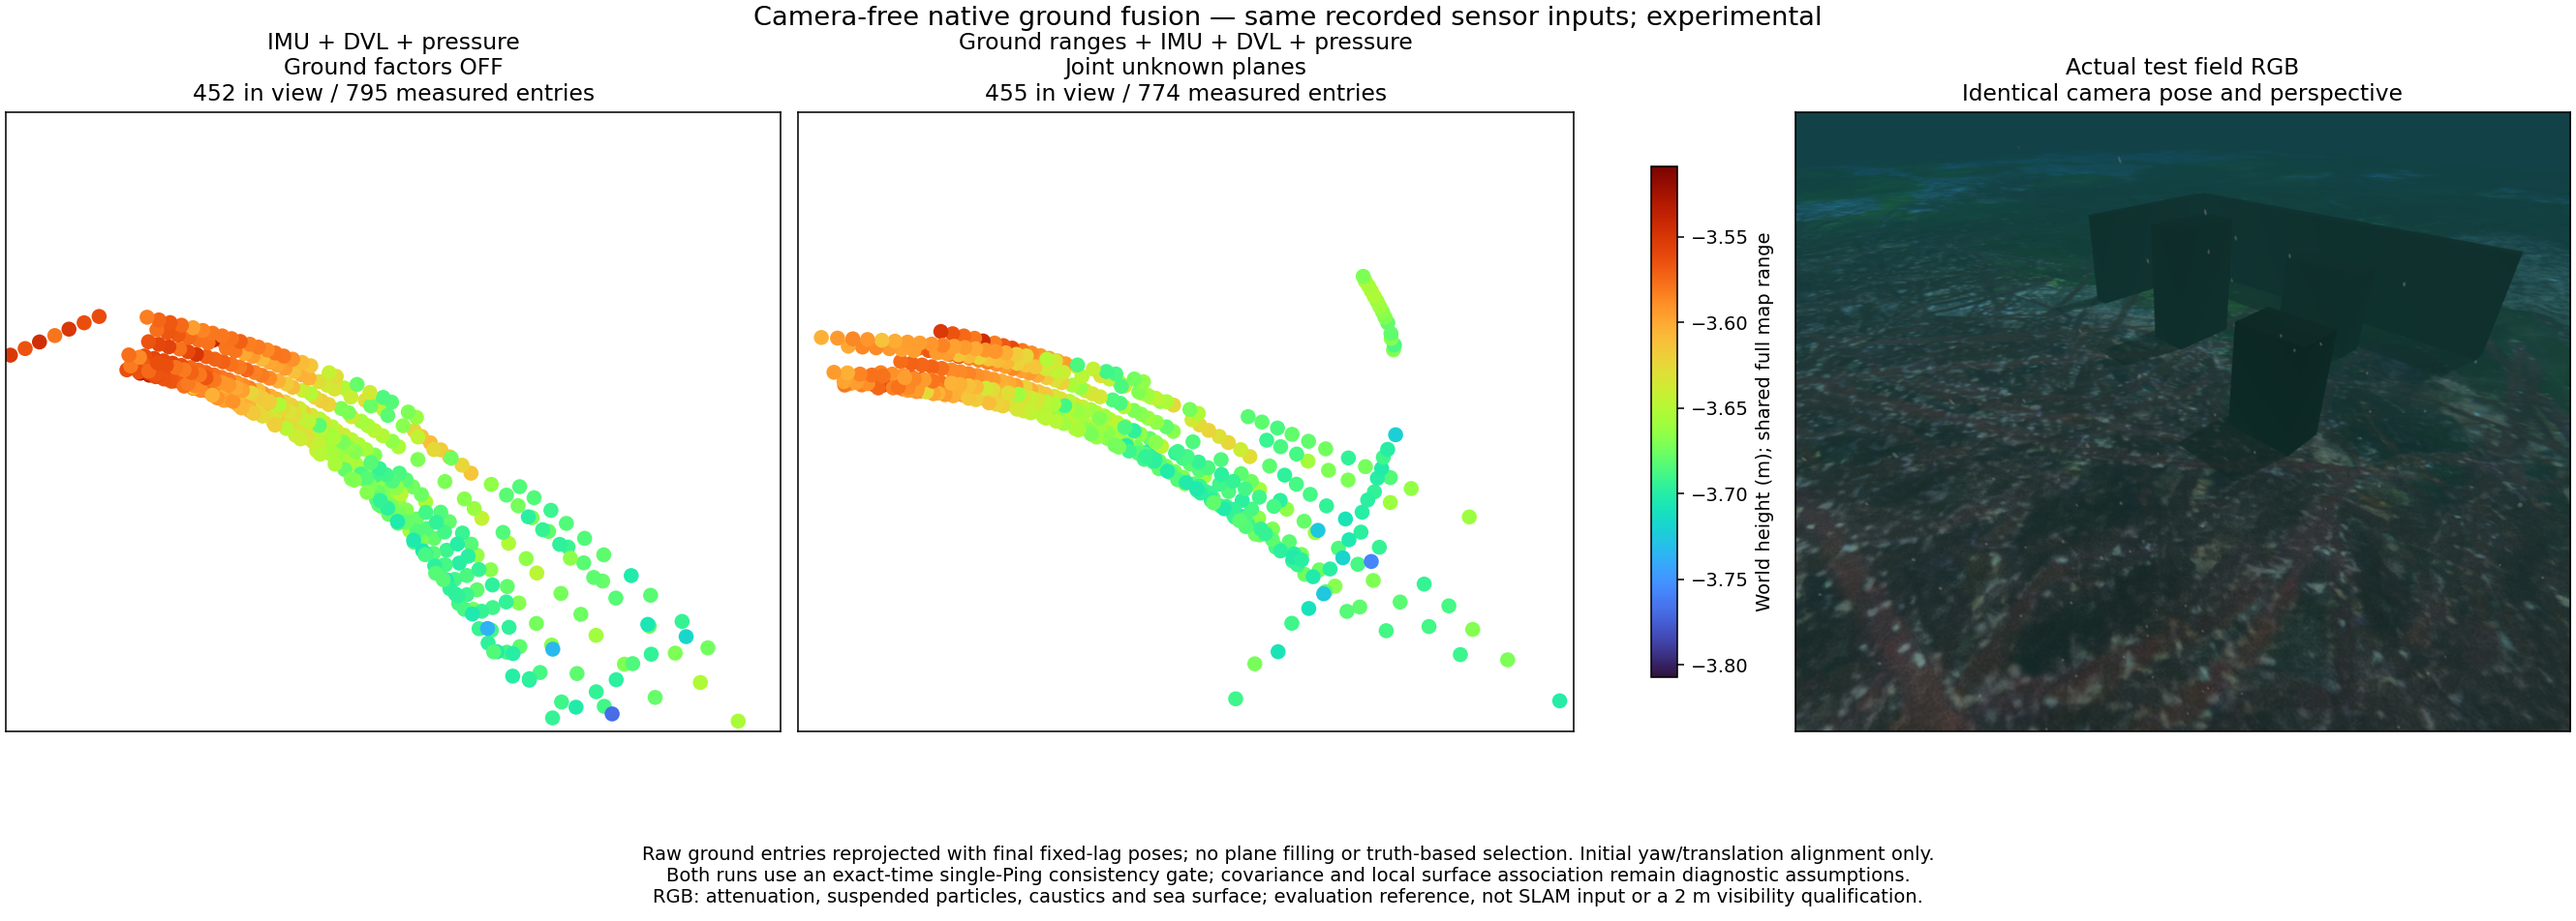
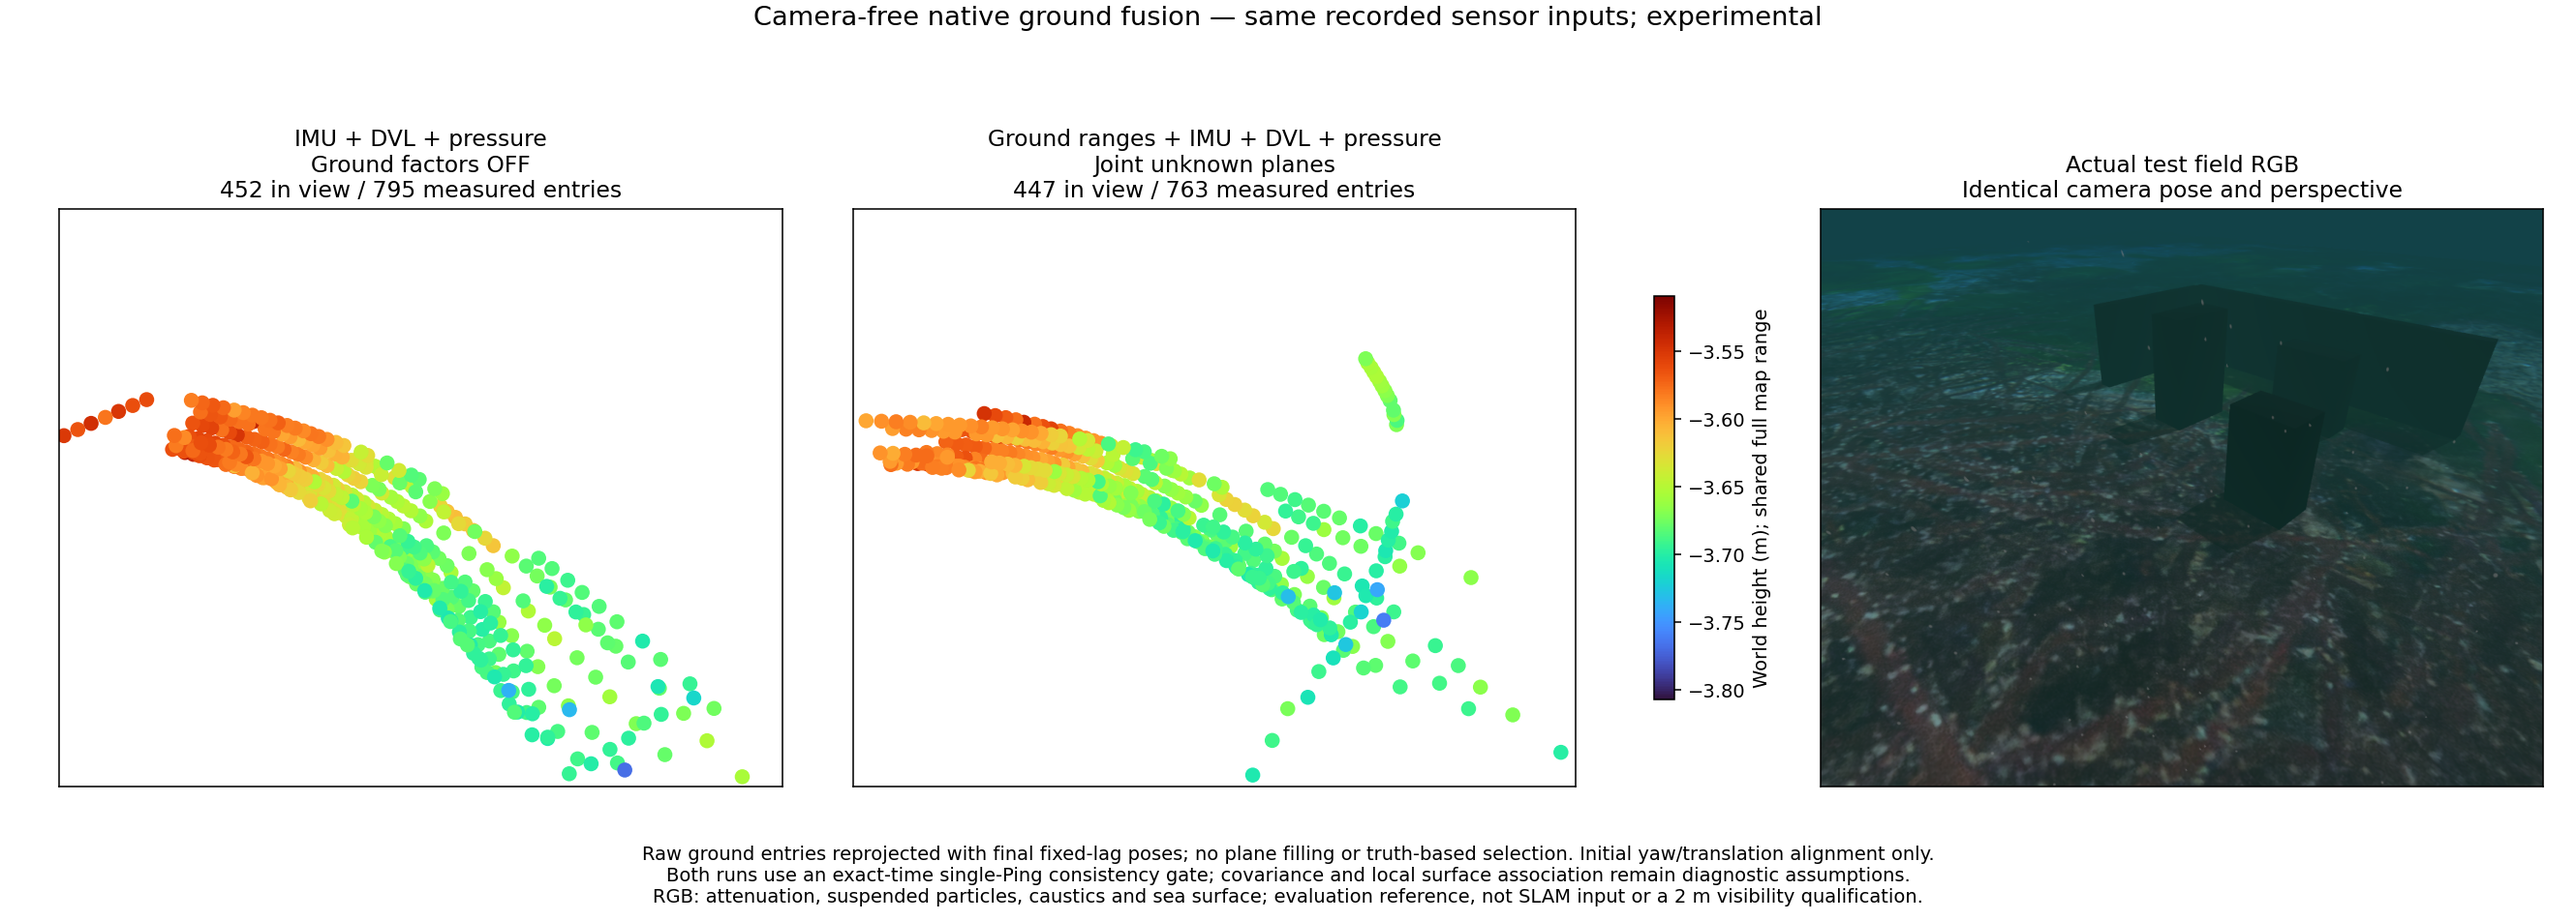
Relinearize active ground factors in current rotation coordinates

diff --git a/tests/test_sonar_ground_joint.py b/tests/test_sonar_ground_joint.py
@@ -6,6 +6,7 @@ import subprocess
 import unittest
 import numpy as np
 from posim_slam.inertial import exp_so3
+from posim_slam.inertial_alignment import log_so3
 from posim_slam.ping_joint import eliminate_patch
 from posim_slam.sonar_ground_joint import linearize_ground_patch
 
@@ -99,6 +100,45 @@ class NativeGroundTests(unittest.TestCase):
         if result.returncode:raise RuntimeError(result.stderr)
         return json.loads(result.stdout)
 
+    def test_updated_plane_keeps_flat_yaw_unobservable(self):
+        a=fixture(flat=True)
+        turn=np.array([.02,-.03,0.]);a['plane_normal']=exp_so3(turn)@a['plane_normal']
+        delta=np.r_[linearize_ground_patch(**a)['normal_basis'].T@(-turn),0.]
+        native=self.native(a,plane_delta=delta,check_derivatives=True)
+        h=np.asarray(native['reduced_H'])
+        numerical=np.asarray(native['numerical_jacobian'])
+        for i in range(4):
+            np.testing.assert_allclose(numerical[:,[6*i,6*i+1,6*i+5]],0.,atol=2e-7)
+            np.testing.assert_allclose(h[:,[6*i,6*i+1,6*i+5]],0.,atol=1e-8)
+        self.assertLess(native['maximum_derivative_error'],2e-6)
+
+    def test_derivatives_follow_accumulated_pose_and_plane_coordinates(self):
+        a=fixture()
+        for i,state in a['states'].items():state['delta']=np.array([.01,-.02,.015,.02*i,-.015*i,.01*i])
+        native=self.native(a,plane_delta=[.025,-.015,.03],check_derivatives=True,prior_sqrt=np.eye(24)*2)
+        self.assertLess(native['maximum_derivative_error'],2e-6)
+        h=np.asarray(native['reduced_H']);epsilon=1e-6
+        # Independently express a rigid world transform in the retained
+        # additive rotation coordinates. Eliminating an unknown plane must
+        # preserve all six global geometric gauges at the updated state.
+        for axis in np.eye(3):
+            turn=[]
+            for state in a['states'].values():
+                delta=state['delta'];rotation=exp_so3(delta[3:])
+                coordinate=(log_so3(exp_so3(epsilon*axis)@rotation)-
+                    log_so3(exp_so3(-epsilon*axis)@rotation))/(2*epsilon)
+                turn.extend(np.r_[np.cross(axis,state['position']+delta[:3]),coordinate])
+            for gauge in (np.tile(np.r_[axis,np.zeros(3)],4),np.asarray(turn)):
+                self.assertLess(np.linalg.norm(h@gauge)/np.linalg.norm(h),1e-9)
+        delta=np.concatenate([s['delta'] for s in a['states'].values()])
+        j=np.asarray(native['jacobian']);r=np.asarray(native['residual']).ravel()
+        whole=np.vstack([np.c_[2*np.eye(24),np.zeros((24,3))],j]);res=np.r_[2*delta,r]
+        permutation=list(range(6,24))+list(range(6))+list(range(24,27))
+        marginal=eliminate_patch(whole[:,permutation],res,retained_columns=18)
+        expected_b=marginal['residual']-marginal['jacobian']@delta[6:]
+        np.testing.assert_allclose(native['marginal_H'],marginal['jacobian'].T@marginal['jacobian'],atol=2e-8)
+        np.testing.assert_allclose(np.asarray(native['marginal_g']).ravel(),marginal['jacobian'].T@expected_b,atol=2e-8)
+
     def test_native_matches_reference_and_retirement(self):
         a=fixture();a['observations'][1]['range_m']+=.01
         py=linearize_ground_patch(**a);change=np.eye(27)
@@ -140,7 +180,10 @@ class NativeGroundTests(unittest.TestCase):
             before.append(abs(a['states'][i]['position'][2]-truth[i]['position'][2]))
             p=np.array(result['states'][str(i)]['position']).ravel()
             after.append(abs(p[2]-truth[i]['position'][2]))
-            np.testing.assert_allclose(p[:2],truth[i]['position'][:2],atol=1e-10)
+            # The fitted plane can tilt during joint estimation. Its current
+            # tangent, not the initially horizontal reference, determines the
+            # unobservable directions (checked separately above).
+            self.assertLess(np.linalg.norm(p-truth[i]['position']),before[-1])
             self.assertLess(np.linalg.norm(np.array(result['states'][str(i)]['attitude'])-np.eye(3)),
                             .75*np.linalg.norm(a['states'][i]['attitude']-np.eye(3)))
         # Finite range noise and the explicit pose prior trade height against

diff --git a/native/basalt/sonar_ground_group.hpp b/native/basalt/sonar_ground_group.hpp
@@ -2,6 +2,7 @@
 #pragma once
 #include "ping_linearization.hpp"
 #include "ping_marginal.hpp"
+#include <basalt/utils/sophus_utils.hpp>
 
 namespace posim_slam {
 struct GroundEntryObservation {
@@ -60,8 +61,16 @@ inline JointPingGroupSpec makeOwnedGroundGroup(basalt::BundleAdjustmentBase<doub
     NativePingGroup out;out.reference=reference;
     out.jacobian=Eigen::MatrixXd::Zero(count,order.total_size+3);
     out.residual=Eigen::VectorXd::Zero(count);Eigen::Index row=0;
+    // The plane has no retained prior: it is eliminated when its group retires.
+    // Its fixed reference defines additive coordinates, not frozen geometry.
+    // Differentiate Exp(B_ref * delta) n_ref at the current accumulated delta.
+    const auto reference_basis=planeBasis(reference.normal);
+    Mat3 plane_left;Sophus::leftJacobianSO3(reference_basis*plane.delta.head<2>(),plane_left);
+    const Eigen::Matrix2d plane_coordinates=planeBasis(plane.normal).transpose()*plane_left*reference_basis;
     for(const auto& o:observations) {
       const auto state=owner.getPoseStateWithLin(o.stamp);const auto pose=state.getPose();
+      Mat3 pose_coordinates=Mat3::Identity();
+      if(state.isLinearized())Sophus::leftJacobianSO3(state.getDelta().tail<3>(),pose_coordinates);
       const auto sensor=pose*calibration.mount;
       const Vec3 local_normal=sensor.rotationMatrix().transpose()*plane.normal;
       const double a=plane.distance-plane.normal.dot(sensor.translation());
@@ -84,12 +93,16 @@ inline JointPingGroupSpec makeOwnedGroundGroup(basalt::BundleAdjustmentBase<doub
           throw std::invalid_argument("ground_first_return_branch_changed");
         if(current.prediction<calibration.minimum || current.prediction>calibration.maximum)
           throw std::invalid_argument("predicted_ground_out_of_range");
-        // Current residual and fixed-reference geometric derivatives match the
-        // surrounding Basalt marginal-prior convention (map-frame LEFT turns).
-        const auto fixed=pingRange(state.getPoseLin(),calibration.mount,ray,reference.normal,reference.distance,0.);
+        // Active nonlinear measurements use current geometry. Retained pose
+        // states add increments to an accumulated rotation vector, so apply
+        // its left Jacobian rather than assuming a fresh zero increment.
+        // Marginalization separately rebases the resulting linear prior.
         out.residual[row]=current.prediction-o.ranges[k];
-        out.jacobian.block<1,6>(row,order.abs_order_map.at(o.stamp).first)=fixed.pose_jacobian;
-        out.jacobian.block<1,3>(row,order.total_size)=fixed.plane_jacobian;
+        const auto column=order.abs_order_map.at(o.stamp).first;
+        out.jacobian.block<1,3>(row,column)=current.pose_jacobian.head<3>();
+        out.jacobian.block<1,3>(row,column+3)=current.pose_jacobian.tail<3>()*pose_coordinates;
+        out.jacobian.block<1,2>(row,order.total_size)=current.plane_jacobian.head<2>()*plane_coordinates;
+        out.jacobian(row,order.total_size+2)=current.plane_jacobian[2];
       }
     }
     out.residual=lower.triangularView<Eigen::Lower>().solve(out.residual).eval();

diff --git a/native/basalt/sonar_ground_probe.cc b/native/basalt/sonar_ground_probe.cc
@@ -41,6 +41,11 @@ int main() {try {
     const Sophus::SE3d pose(rotation,vector3(state.at("position")));
     if(!owner.frame_poses.emplace(stamp,basalt::PoseStateWithLin<double>(stamp,pose,true)).second)
       throw std::invalid_argument("probe_duplicate_state");
+    if(state.contains("delta")) {
+      const auto values=state.at("delta").get<std::vector<double>>();
+      if(values.size()!=6)throw std::invalid_argument("probe_pose_delta");
+      owner.frame_poses.at(stamp).applyInc(Eigen::Map<const Eigen::Matrix<double,6,1>>(values.data()));
+    }
     order.abs_order_map[stamp]={order.total_size,6};order.total_size+=6;++order.items;
     const auto ranges=item.at("range_m").get<std::vector<double>>(),az=item.at("azimuth_rad").get<std::vector<double>>();
     observations.push_back({stamp,item.at("beam_ids").get<std::vector<int>>(),
@@ -49,12 +54,33 @@ int main() {try {
   GroundEntryCalibration c{Sophus::SE3d(Mat3(matrix(input.at("sonar_to_imu"))),vector3(input.at("imu_to_sonar"))),
     input.at("vertical_fov"),input.at("range_min"),input.at("range_max")};
   owner.posim_ping_planes.set(0,vector3(input.at("plane_normal")),input.at("plane_distance"));
+  if(input.contains("plane_delta"))owner.posim_ping_planes.apply(0,vector3(input.at("plane_delta")));
   const auto group=makeOwnedGroundGroup(owner,order,0,c,observations,matrix(input.at("measurement_covariance")));
   const auto raw=group.build({});const auto reduced=eliminateJointPatch(raw.jacobian,raw.residual,order.total_size);
   Json output={{"jacobian",jsonMatrix(raw.jacobian)},{"residual",jsonMatrix(raw.residual)},
     {"reduced_H",jsonMatrix(reduced.jacobian.transpose()*reduced.jacobian)},
     {"reduced_g",jsonMatrix(reduced.jacobian.transpose()*reduced.residual)},
     {"nuisance_rank",reduced.nuisance_rank}};
+  if(input.value("check_derivatives",false)) {
+    constexpr double epsilon=1e-6;
+    Eigen::MatrixXd numerical(raw.jacobian.rows(),raw.jacobian.cols());
+    for(Eigen::Index k=0;k<numerical.cols();++k) {
+      Eigen::VectorXd values[2];
+      for(int sign=0;sign<2;++sign) {
+        owner.backup();const double step=(sign?1.:-1.)*epsilon;
+        if(k<Eigen::Index(order.total_size)) {
+          Eigen::Matrix<double,6,1> delta=Eigen::Matrix<double,6,1>::Zero();delta[k%6]=step;
+          owner.frame_poses.at(observations[k/6].stamp).applyInc(delta);
+        } else {
+          Vec3 delta=Vec3::Zero();delta[k-order.total_size]=step;owner.posim_ping_planes.apply(0,delta);
+        }
+        values[sign]=group.build({}).residual;owner.restore();
+      }
+      numerical.col(k)=(values[1]-values[0])/(2*epsilon);
+    }
+    output["numerical_jacobian"]=jsonMatrix(numerical);
+    output["maximum_derivative_error"]=(numerical-raw.jacobian).cwiseAbs().maxCoeff();
+  }
   if(input.contains("prior_sqrt")) {
     basalt::MargLinData<double> prior;prior.is_sqrt=true;prior.order=order;
     prior.H=matrix(input.at("prior_sqrt"));prior.b=Eigen::VectorXd::Zero(prior.H.rows());

diff --git a/docs/diagnostics/sonar-ground-linearization.md b/docs/diagnostics/sonar-ground-linearization.md
@@ -1,0 +1,74 @@
+# Ground-factor linearization / 해저 제약 선형화
+
+The experimental raw-ground factor differentiates the current sensor pose and
+unknown plane. The plane's initial normal defines its rotation coordinates;
+it is not fixed surface geometry. The full correlated range covariance is
+whitened before eliminating the three plane variables.
+
+실험용 원본 해저 제약은 현재 센서 자세와 미지 평면에서 미분합니다. 평면의
+초기 법선은 회전 좌표의 기준이며 고정된 표면 형상이 아닙니다. 상관된 거리
+공분산으로 백색화한 뒤 평면 변수 세 개를 소거합니다.
+
+The stored normal is `n = Exp(B_ref * delta) * n_ref`. Its differential uses
+the SO(3) left Jacobian at `B_ref * delta`. A retained pose similarly stores
+an accumulated rotation vector, so its current geometric derivative is mapped
+through that vector's left Jacobian. Fresh poses use an identity mapping.
+When a group retires, the whole plane is eliminated and the retained prior is
+rebased in the existing pose coordinates. No known plane or pose is supplied.
+
+저장한 법선은 `n = Exp(B_ref * delta) * n_ref`입니다. 미분에는
+`B_ref * delta`에서의 SO(3) 왼쪽 야코비안을 사용합니다. 보유 자세의 누적
+회전 벡터에도 같은 좌표 변환을 적용하고 새 자세에는 단위 변환을 사용합니다.
+그룹을 제거할 때 평면 전체를 소거하고 보유 자세 좌표에 맞춰 사전 제약의
+상수항을 변환합니다. 알려진 평면이나 자세를 관측값으로 제공하지 않습니다.
+
+## Numerical checks / 수치 검사
+
+A synthetic test starts with a tilted plane reference and updates the normal
+to horizontal. Frozen initial geometry produces nonzero horizontal/yaw
+information even though numerical differentiation gives zero. Current-geometry
+rows reduce the maximum offending information entry from 4,268 to
+`2.8e-13`; maximum whitened derivative error is `2.9e-8`.
+
+합성 검사는 경사진 평면 기준에서 시작해 법선을 수평으로 갱신합니다.
+초기 형상을 고정하면 수치 미분이 0인 수평 이동·방위 방향에도 정보가 남습니다.
+현재 형상으로 계산하면 해당 정보 행렬 성분의 최대 절댓값이 4,268에서
+`2.8e-13`으로 줄며, 백색화 미분의 최대 오차는 `2.9e-8`입니다.
+
+Further checks cover nonzero accumulated pose/plane rotations, six rigid-world
+gauge directions, and joint marginalization with a nonzero retained delta.
+The marginal matrix and rebased vector agree with independent dense elimination.
+Native IMU/DVL/pressure tests also exercise repeated state retirement.
+
+추가 검사는 자세·평면의 누적 회전이 0이 아닌 경우, 세계 좌표 전체의 강체
+변환에 해당하는 여섯 자유도, 보유 상태 변화량이 0이 아닌 공동 주변화를
+포함합니다. 주변화 행렬과 변환한 벡터를 독립적인 밀집 소거와 대조합니다.
+네이티브 IMU·DVL·수압 검사에서는 반복 상태 제거도 수행합니다.
+
+## Accuracy limit / 정확도 한계
+
+This numerical correction does not qualify terrain SLAM. In recorded case C,
+online position RMSE with actual ground entries is 1.389 m versus 0.016 m
+without ground factors. The synthetic horizontal-plane ablation is 0.086 m;
+its ranges are generated from reference poses, so it is only a model diagnosis.
+Four updated recorded comparisons and matched RGB/point clouds are in
+[native ground fusion](sonar-ground-live.md).
+
+이 수치 수정만으로 지형 SLAM을 검증하지 않습니다. C 기록의 실제 해저 관측을
+사용한 온라인 위치 RMSE는 1.389 m이며 해저 제약 없는 경우는 0.016 m입니다.
+합성 수평면 진단은 0.086 m지만 정답 자세로 거리를 생성하므로 모델 진단에만
+사용합니다. 네 기록의 최신 비교와 같은 시점 RGB·점군은
+[네이티브 해저 융합](sonar-ground-live.md)에 있습니다.
+
+Surface association and acoustic onset uncertainty still need validation.
+These checks do not establish statistical consistency of the complete
+fixed-lag estimator or camera-free navigation without DVL.
+
+표면 연결과 음향 반사 시작점의 불확실성 검증이 남아 있습니다. 이 검사로
+전체 고정 구간 추정기의 통계적 일관성이나 DVL 없는 카메라 미사용 항법을
+입증하지 않습니다.
+
+Sources / 소스:
+[factor](../../native/basalt/sonar_ground_group.hpp),
+[numerical probe](../../native/basalt/sonar_ground_probe.cc),
+[regression tests](../../tests/test_sonar_ground_joint.py).

diff --git a/docs/diagnostics/sonar-ground-live.md b/docs/diagnostics/sonar-ground-live.md
@@ -9,6 +9,12 @@ are added. This mode is not qualified for application use.**
 자세와 미지 국소 평면을 공동 최적화합니다. **네 기록 모두 해저 제약을 추가하면
 위치 오차가 커집니다. 앱 사용을 위한 검증 기준을 통과하지 못했습니다.**
 
+Active ground rows use current geometry and the accumulated rotation-coordinate
+Jacobians. [Linearization and numerical checks](sonar-ground-linearization.md).
+
+활성 해저 제약은 현재 형상과 누적 회전 좌표의 야코비안을 사용합니다.
+[선형화와 수치 검사](sonar-ground-linearization.md).
+
 ## Inputs and ownership / 입력과 관측 관리
 
 `LiveClient.ground` negotiates `exact_beam_entries_v1` and submits a bounded
@@ -60,10 +66,10 @@ surface error is p90 distance to the seabed, not obstacle accuracy or coverage.
 
 | Record / 기록 | Position / 위치 (m) | Surface / 표면 (cm) |
 | --- | ---: | ---: |
-| A | 0.055 / 1.015 | 2.71 / 9.12 |
-| B | 0.019 / 0.391 | 2.33 / 4.11 |
-| C | 0.016 / 1.351 | 2.06 / 8.19 |
-| D | 0.043 / 0.217 | 2.12 / 3.14 |
+| A | 0.055 / 1.085 | 2.71 / 9.57 |
+| B | 0.019 / 0.356 | 2.33 / 3.94 |
+| C | 0.016 / 1.389 | 2.06 / 8.17 |
+| D | 0.043 / 0.197 | 2.12 / 3.01 |
 
 The control demonstrates useful conditional seabed samples from IMU/DVL/pressure
 poses. It does not demonstrate terrain-aided localization, obstacle mapping or
